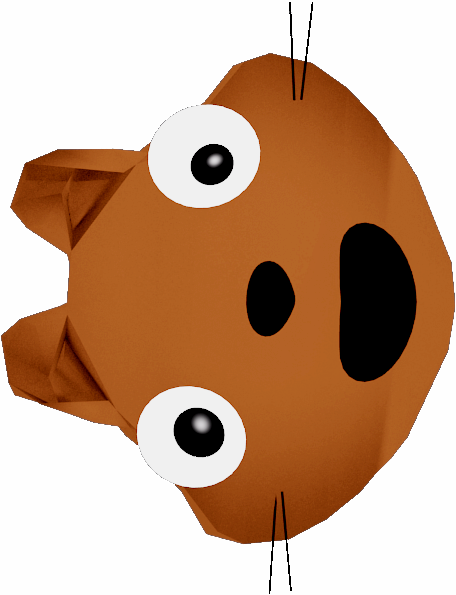
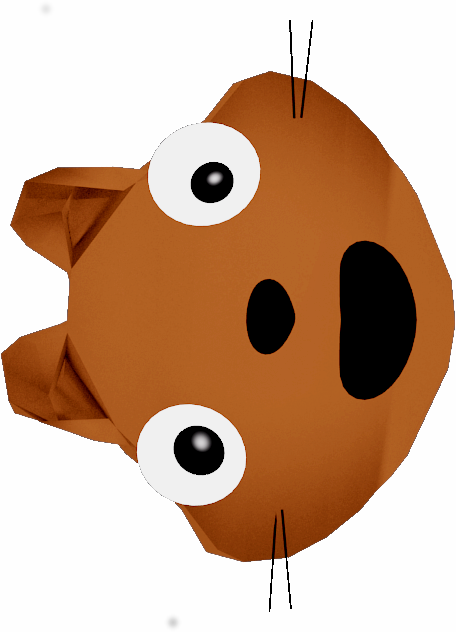
Merged into main folder, weasel animations got buggy

diff --git a/ParticleWeasel.js b/ParticleWeasel.js
@@ -42,7 +42,7 @@ $(document).ready(function () {
         powerParticles.push(initialParticles[p]);
         initialParticles.splice(p, 1);
     }
-  
+
     //----------------------Images----------------------------------
     //-----------------------------------------------------------------------
     //Source image array
@@ -52,7 +52,8 @@ $(document).ready(function () {
         StartScreen: "./images/StartScreen.png",
         MainMenu: "./images/MainMenu.png",
         ResumeGame: "./images/ResumeGame.png",
-        Weasel: "./images/WeaselOpen.png",
+        WeaselOpened: "./images/WeaselOpen.png",
+        WeaselClosed: "./images/WeaselClosed.png",
         Background: "./images/Background.png",
         Proton: "./images/Particle6.png",
         Powerup1: powerParticles[0],
@@ -121,7 +122,7 @@ $(document).ready(function () {
             y: evt.clientY - rect.top
         };
     }
- 
+
     //----------------------Gamepad Functions--------------------------------
     //-----------------------------------------------------------------------
     //Mostly taken from:
@@ -141,7 +142,7 @@ $(document).ready(function () {
         gp = navigator.getGamepads()[0];
         var html = "";
             html += "id: "+gp.id+"<br/>";
- 
+
         //$("#gamepadDisplay").html(html);
     }
 
@@ -332,7 +333,7 @@ $(document).ready(function () {
     var menu = new Screen(false,false);
     screenMan.push(menu);
     menu.init = function() {
-        
+
         //Menu background w/ controls
         control = new Sprite();
         control.setSrc(sources.StartScreen);
@@ -478,7 +479,7 @@ $(document).ready(function () {
         /*ctx.fillRect(0, h - 50, w, h);
         for(i in weasel.eaten){
           weasel.eaten[i].draw();
-        
+
         }
         */
 
@@ -628,7 +629,7 @@ $(document).ready(function () {
             //past upper part and moving up
             else if(this.y < 0 && this.yspeed < 0){
                 //this.x = Math.random() * canvas.width();
-                this.period = Math.random() * 90;               
+                this.period = Math.random() * 90;
                 this.yspeed *= -1;
             }
             //x equivalents
@@ -645,7 +646,7 @@ $(document).ready(function () {
             else{
                 this.x += this.xspeed;
                 this.y += this.yspeed;
-                
+
             }
         }
     }
@@ -879,7 +880,7 @@ $(document).ready(function () {
 //----------------------------------------------------------------------------
     var weasel = new Sprite();
     weasel.image = new Image();
-    weasel.setSrc(sources.Weasel);
+    weasel.setSrc(sources.WeaselClosed);
     weasel.x = canvas.width/2;
     weasel.y = canvas.height/2;
     weasel.center();
@@ -893,6 +894,7 @@ $(document).ready(function () {
     weasel.speedPower = false;
     weasel.angle = 0;
     weasel.score = 5000;
+    weasel.closed = true;
 
     weasel.init = function() {
         this.followPower = false;
@@ -941,6 +943,13 @@ $(document).ready(function () {
                 }
                 partObstacles.splice(i,1);
                 createObstacles(1, false);
+                if(this.closed == true){
+                  this.setSrc(sources.WeaselOpened);
+                  this.closed = false;
+                }else{
+                  this.setSrc(sources.WeaselClosed);
+                  this.closed = true;
+                }
             }
         }
 
@@ -951,7 +960,7 @@ $(document).ready(function () {
                 this.speed = .5;
             }
         }
-        
+
         if (!useCon) this.mouseMove();
         if(hasGP) {
             this.conMove();
